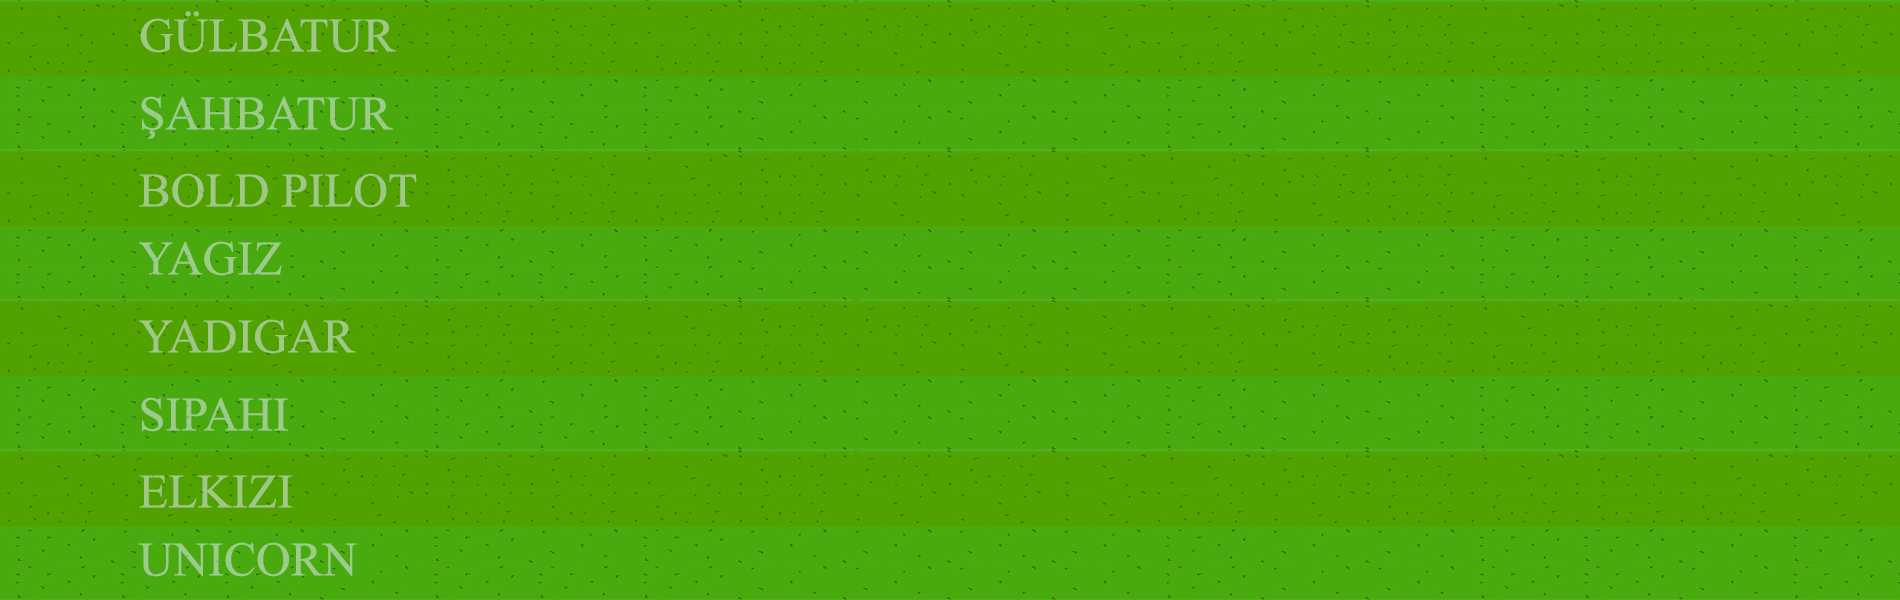
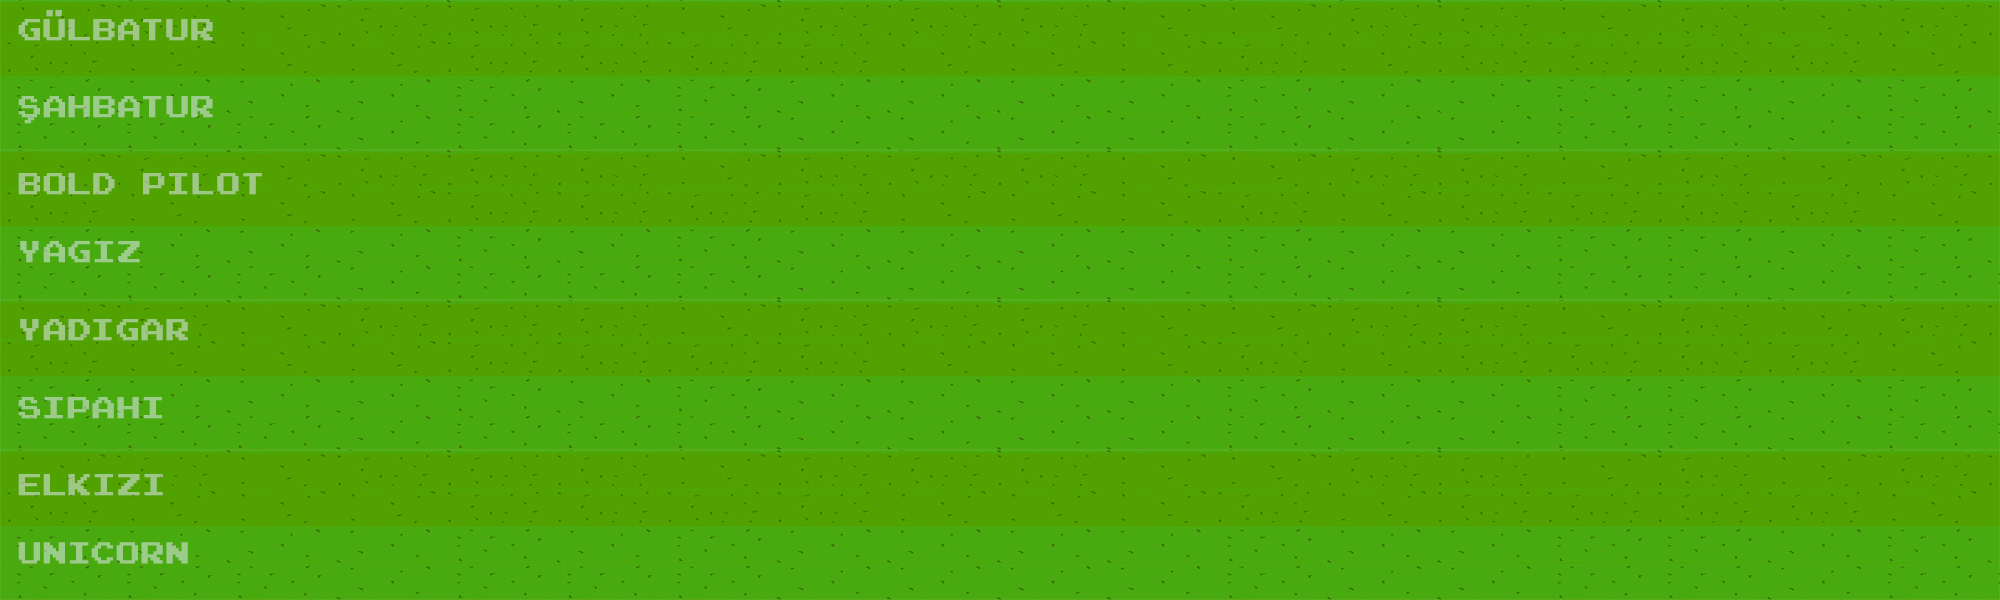
css update (pixel)

diff --git a/src/components/Race.vue b/src/components/Race.vue
@@ -56,12 +56,12 @@ const updateLeaderboardHandler = (horse) => {   // finish sonrası liderlik tabl
         <!-- <Results :horses="props.horses" :leaderboard="finalLeaderboard"></Results> -->
         <Results :horses="horseRef" :leaderboard="finalLeaderboard"></Results>
     </div>
-    <template v-if="countDownTimer<1">
+    <template v-if="countDownTimer < 1">
         <div class="track">
             <div v-for="horse in props.horses" :key="horse.id">
                 <div class="finish"></div>
                 <div class="line-wrapper">
-                    <p class="line-id">{{horse.id}}</p>
+                    <p class="line-id">{{ horse.id }}</p>
                     <Horse @updateHorse="updateHorseHandler" @updateLeaderboard="updateLeaderboardHandler"
                         :horse="horse" :countdown="countDownTimer">
                     </Horse>
@@ -77,7 +77,7 @@ const updateLeaderboardHandler = (horse) => {   // finish sonrası liderlik tabl
         </div>
     </template>
     <template v-if="isCountDown">
-        <p class="countdown-timer">{{countDownTimer}}</p>
+        <p class="countdown-timer">{{ countDownTimer }}</p>
     </template>
     <div class="race-settings">
         <template v-if="!start">
@@ -88,9 +88,9 @@ const updateLeaderboardHandler = (horse) => {   // finish sonrası liderlik tabl
                     src="https://cdn-icons-png.flaticon.com/512/5565/5565918.png" alt=""></button>
         </template>
         <div class="bet-options">
-            <p class="bet-opt">Bahis Yapılan At: <span class="bet-select">{{getBet().selectedHorse}}</span></p>
-            <p class="bet-opt">Bahis Tutarı: <span class="bet-select">{{getBet().betAmount}}₺</span></p>
-            <p class="bet-opt">Olası Kazanç: <span class="bet-select">{{getBet().betAmount*betX}}₺</span></p>
+            <p class="bet-opt">Bahis Yapılan At: <span class="bet-select">{{ getBet().selectedHorse }}</span></p>
+            <p class="bet-opt">Bahis Tutarı: <span class="bet-select">{{ getBet().betAmount }}₺</span></p>
+            <p class="bet-opt">Olası Kazanç: <span class="bet-select">{{ getBet().betAmount * betX }}₺</span></p>
         </div>
     </div>
 
@@ -108,7 +108,7 @@ const updateLeaderboardHandler = (horse) => {   // finish sonrası liderlik tabl
 
 .countdown-timer {
     @apply absolute left-[50%] bottom-[50%] translate-y-[50%] text-[6rem];
-   
+
 }
 
 .track {
@@ -129,6 +129,8 @@ const updateLeaderboardHandler = (horse) => {   // finish sonrası liderlik tabl
 
     &__finish {
         @apply h-[600px] absolute right-0 w-2 bg-white mr-[5vw];
+        background-image: url(https://i.pinimg.com/originals/9f/66/4e/9f664e48cb3436b6a664141f92c1baad.png);
+        background-size: 60px;
     }
 }
 
@@ -143,6 +145,8 @@ const updateLeaderboardHandler = (horse) => {   // finish sonrası liderlik tabl
 
 .finish {
     @apply absolute right-0 w-2 h-[75px] bg-white mr-[5vw];
+    background-image: url(https://i.pinimg.com/originals/9f/66/4e/9f664e48cb3436b6a664141f92c1baad.png);
+    background-size: 60px;
 }
 
 .line-wrapper {
@@ -151,16 +155,19 @@ const updateLeaderboardHandler = (horse) => {   // finish sonrası liderlik tabl
     // background: rgb(125, 196, 125);
     border-color: rgba(240, 248, 255, 0.214);
 }
+
 .results {
     @apply flex justify-end;
 }
-.bet-options{
-    @apply flex flex-col;
 
-    .bet-opt{
-        @apply flex justify-between w-[200px];
+.bet-options {
+    @apply flex flex-col items-center bg-bgprimary text-white w-full h-full;
+
+    .bet-opt {
+        @apply flex justify-between w-[250px];
     }
-    .bet-select{
+
+    .bet-select {
         @apply font-bold;
     }
 }

diff --git a/src/components/Results.vue b/src/components/Results.vue
@@ -49,7 +49,7 @@ const sortedHorses = computed(() => { // sort işlemini takip etmek için comput
                
         <div id="header">
             <div class="leaderboard__header">
-                <img class="leaderboard__icon" src="https://cdn-icons-png.flaticon.com/512/744/744974.png" alt="">
+                <img class="leaderboard__icon" src="https://cdn-icons-png.flaticon.com/512/6514/6514964.png" alt="">
                 <h1 class="leaderboard__title">LIDERLIK TABLOSU</h1>
             </div>
         </div>
@@ -62,7 +62,6 @@ const sortedHorses = computed(() => { // sort işlemini takip etmek için comput
     </div>
     <template v-if="isBetWin">
         <div class="betwin">
-            <img class="money-rain" src="https://media.tenor.com/ZDe0dPKLr3AAAAAi/raining-money-money.gif" alt="">
             <p>TEBRIKLER {{getBet().betAmount*betX}}₺ KAZANDINIZ</p>
         </div>
     </template>
@@ -70,8 +69,7 @@ const sortedHorses = computed(() => { // sort işlemini takip etmek için comput
 
 <style lang="scss" scoped>
 .leaderboard {
-    font-family: 'Source Sans Pro', sans-serif;
-    @apply flex justify-around items-center p-3 bg-bgprimary text-slate-50 w-full h-[200px] rounded-xl;
+    @apply flex justify-center items-center p-3 bg-bgprimary text-slate-50 w-full h-[200px];
 
     &__header {
         @apply hidden md:flex flex-col justify-center items-center w-1/2;

diff --git a/src/components/Bet.vue b/src/components/Bet.vue
@@ -34,7 +34,7 @@ const submitCoupon = () => {
 <template>
     <div class="bet">
         <div class="bet__select">
-            <h1 class="bet-title">Bir at seçiniz</h1>
+            <h1 class="bet-title">Bir at seciniz</h1>
             <ul class="bet-horse-wrapper">
                 <li class="bet-horse" v-for="horse in horses" :key="horse.id"><label
                         :for="horse.id">{{horse.name}}</label>
@@ -79,13 +79,13 @@ const submitCoupon = () => {
 </template>
 
 <style lang="scss" scoped>
+
 .bet {
-    font-family: 'Courier New', Courier, monospace;
     @apply flex flex-col sm:flex-row sm:w-[600px] gap-[5px] sm:h-[300px] items-center mb-20 sm:mb-1;
     box-shadow: 1rem 1rem 2rem hsl(0 0% 0% / 50%);
 
     &__select {
-        @apply flex flex-col h-full w-[350px] font-semibold bg-bgprimary p-[10px];
+        @apply flex flex-col justify-center h-full w-[350px] font-semibold bg-bgprimary p-[10px];
 
         .bet-title {
             @apply text-[28px] text-white;

diff --git a/src/components/LeaderboardItem.vue b/src/components/LeaderboardItem.vue
@@ -19,7 +19,7 @@ const rankClasses = computed(() => {    // eşleşen class'ları verdim
     <div class="leaderboard__profile">
         <p :class="rankClasses">{{props.rank+1}}-</p>
         <p class="horse-name">{{props.horse.name}} <p class="horse-id">({{props.horse.id}})</p></p>
-        <p class="time"> {{(props.horse.pos).toFixed(1)}}
+        <p class="time"> {{(props.horse.finish)}}
             <p v-if="props.horse.pos" class="seconds">sn</p>
         </p>
     </div>
@@ -28,8 +28,9 @@ const rankClasses = computed(() => {    // eşleşen class'ları verdim
 
 <style>
 .leaderboard__profile {
-    @apply flex w-[100px] items-center justify-between;
-    @apply sm:w-[180px];
+    font-family: 'Pixel';
+    @apply flex w-[45%] items-center justify-between;
+    @apply sm:w-[200px];
 }
 .horse-name{
     @apply flex justify-center items-center;

diff --git a/src/service/service.js b/src/service/service.js
@@ -46,7 +46,7 @@ export const setDefault = () => { // default hale getiriyorum
 
 export const horseData = (count = 8) => {	// at verilerini oluşturuyorum
 	const horses = [];
-	const names = ["Gülbatur", "Şahbatur", "Bold Pilot", "Yagız", "Yadigar", "Sipahi", "Elkızı", "Unicorn"];
+	const names = ["Gülbatur", "Sahbatur", "Bold Pilot", "Yagız", "Yadigar", "Sipahi", "Elkızı", "Unicorn"];
 	for (let i = 0; i < count; i++) {
 		const horse = {
 			name: names[i],
@@ -69,13 +69,3 @@ export const randomSpeed = (min = 1, max = 5) => {	// random hız fonksiyonu
 	return result;
 };
 
-// const lastLeaderboard = [];
-// export const saveLeaderboard = (name) => {
-// 	lastLeaderboard.push(name);
-// 	console.log(lastLeaderboard);
-// 	return lastLeaderboard;
-// };
-
-// export const getLeaderboard = () => {
-// 	return lastLeaderboard;
-// };

diff --git a/src/style.css b/src/style.css
@@ -2,12 +2,24 @@
 @tailwind components;
 @tailwind utilities;
 
-html,#app{
-    height: 100%;
+@font-face {
+    font-family: 'Pixel';
+    src: url('/font/pixel.ttf') format('embedded-opentype'),
+        url('/font/pixel.ttf') format('woff2'),
+        url('/font/pixel.ttf') format('woff'),
+        url('/font/pixel.ttf') format('truetype'),
+        url('/font/pixel.ttf') format('svg');
 }
 
-body{
+html,
+#app {
+    height: 100%;
+    font-family: 'Pixel';
+}
+
+body {
     padding: 3px;
     height: 100%;
 }
+
 /* The palette has 5 colors which are Goldenrod Light Color (#ef912d), Rosy Brown Dark Color (#9b6753), Dim Gray Dark Color (#473e3a), Black Dark Color (#20211a), Dim Gray Dark Color(#7b584e), */
